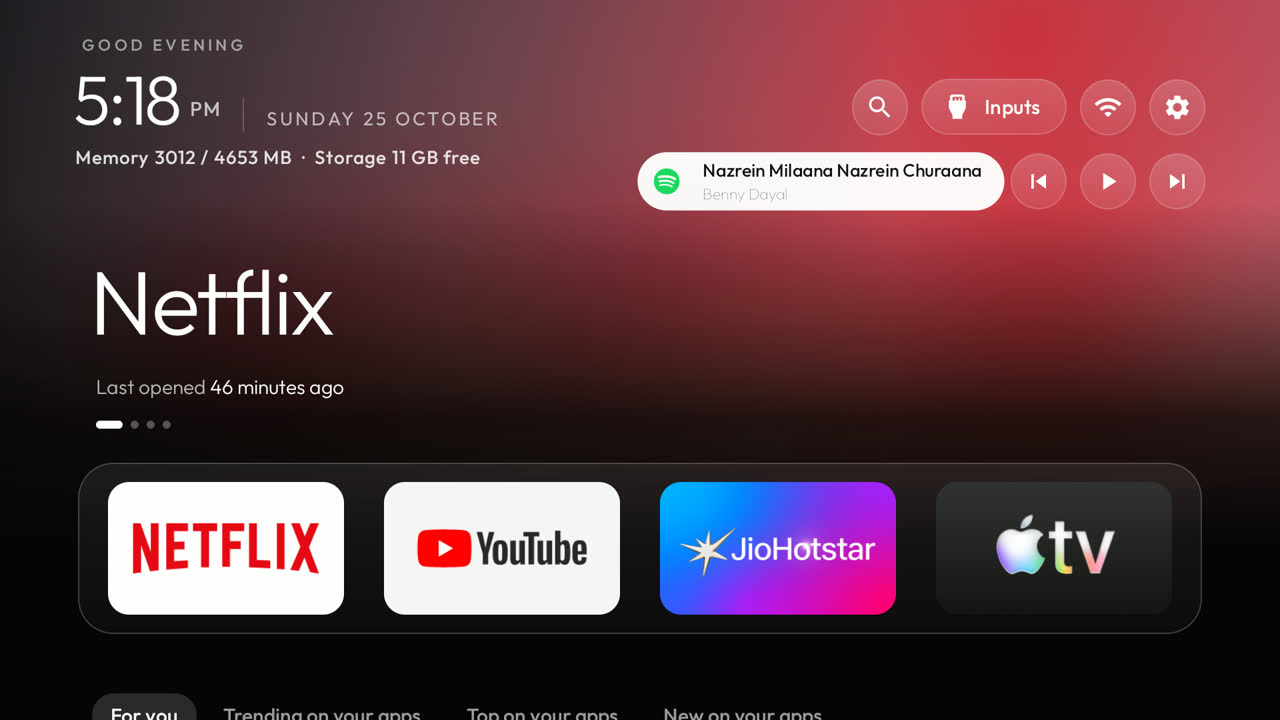
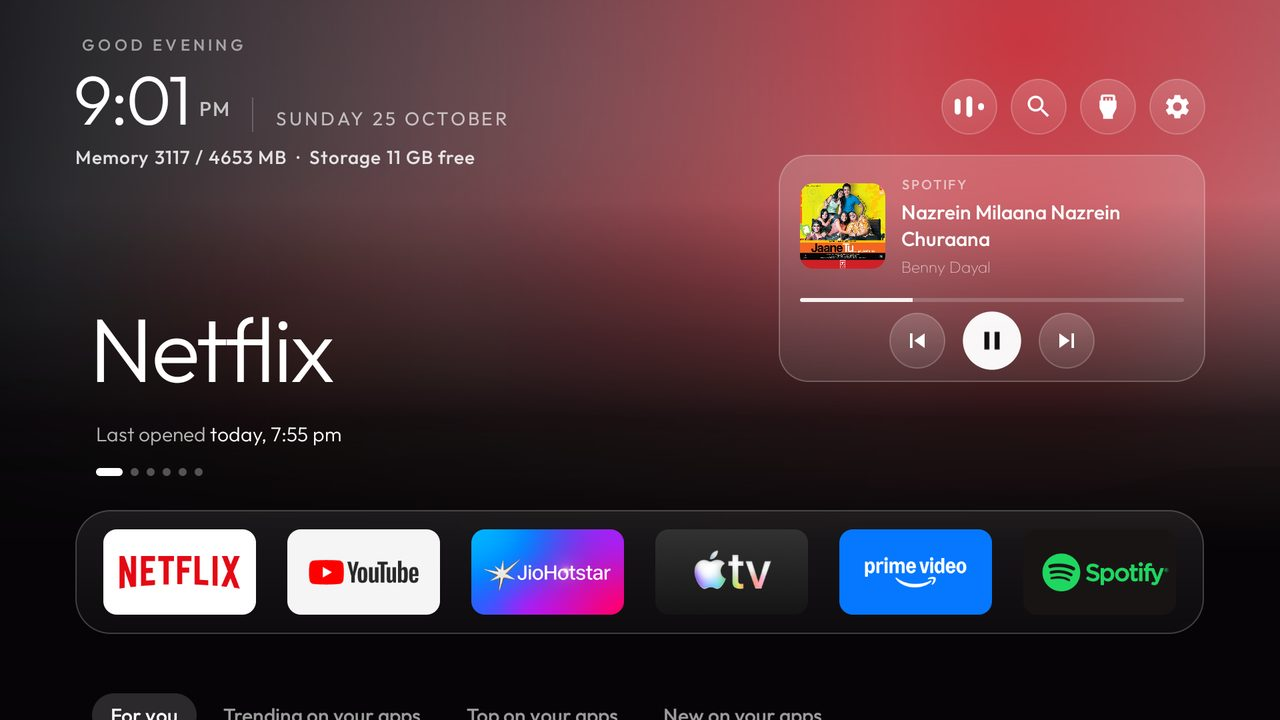
Docs: README fork box lists everything the fork adds; FORK.md covers 6 columns and the top bar
README: Discover (with TMDB backup), the now-playing button and card, the
grid (by use, 6 columns, round top buttons) and the Sony remote keys.
FORK.md: columns and poster sizing, the icon-only top bar, the music button
in the my-glass row. New now_playing screenshot (button and open card with
album art).

diff --git a/FORK.md b/FORK.md
@@ -1,7 +1,7 @@
 # This fork: Discover, Now playing and more
 
 A fork of [Gathin23/cleanyourtv](https://github.com/Gathin23/cleanyourtv) with features on top of the clean
-launcher: search and recommendations on the home screen, a now-playing card, a grid that follows what you use,
+launcher: search and recommendations on the home screen, a now-playing button and card, a grid that follows what you use,
 and a working remote on Sony BRAVIA Google TVs. Built and used daily on a **Sony BRAVIA 4K AE2** (Google TV 14,
 India). Everything upstream still applies; this page covers only what the fork adds.
 
@@ -29,7 +29,7 @@ The launcher still has **no internet permission**. Anything online lives in a se
 | **Now playing** | An animated music button in the top bar while Spotify or any media app plays; OK opens a glass card with art, title, artist, progress and previous / play-pause / next. | `now_playing` + one ADB grant |
 | **Grid by use** | The apps below the dock sort by how often (or how recently) you open them. | `grid_order` |
 | **Sony remote keys** | The app keys (Netflix, YouTube, ...) and the gear button work again without Google TV's home. | `app_keys`, `settings_key_scancodes` |
-| **my-glass theme** | The glass look with 14 rotating landscapes, 6 app columns, three round top buttons (search, inputs, settings), stats line and a 3-minute idle clock. | `themes/my-glass` |
+| **my-glass theme** | The glass look with 14 rotating landscapes, 6 app columns, round icon-only top buttons (music while playing, search, inputs, settings), stats line and a 3-minute idle clock. | `themes/my-glass` |
 
 ## Set up a TV from scratch
 
@@ -154,6 +154,10 @@ with `adb shell input` do not go through the helper; test with the real remote.
   to change it; `tools/theme.sh --reset` goes back to the plain look.
 - **grid_order:** `alphabetical` (upstream's), `recent` (last opened first) or `frequent` (most opened, the last
   week or two counting most). The dock keeps its own order.
+- **columns:** my-glass uses `"columns": 6` (like Apple TV on a 55" screen). Discover's posters stay four across
+  however many app columns there are, so artwork and titles stay readable; a focused poster row sits a little
+  higher when needed so the app name under it is never cut off.
+- **A calmer top bar:** `"show_network_pill": false` and `"icon_only_inputs": true` leave only round icons.
 
 ## Troubleshooting
 

diff --git a/README.md b/README.md
@@ -22,10 +22,15 @@
   <a href="docs/PRESS.md"><img src="docs/card.jpg" alt="293 TV models · 83 brands · 28 languages · 517 KB launcher. Featured in TechCrunch, TechRadar, Tom's Guide, Mashable, Android Authority, XDA, FlatpanelsHD, It's FOSS, Phandroid, GIGAZINE, Xataka, WinFuture, Frandroid, Macitynet, Techaeris, TechPP and 180 more: 196 articles from 32 countries. Before: stock Google TV home with a sponsored ad. After: the Clean Your TV launcher." width="800"></a>
 </p>
 
-> **About this fork** ([ishubhamsingh/cleanyourtv](https://github.com/ishubhamsingh/cleanyourtv)): search,
-> trending and *For you* rows on the home screen (the launcher stays offline), a now-playing card for Spotify and
-> other music, a grid sorted by use, and a working remote on Sony BRAVIA Google TVs. Features, setup and guides:
-> **[FORK.md](FORK.md)**. Everything below is upstream's.
+> **About this fork** ([ishubhamsingh/cleanyourtv](https://github.com/ishubhamsingh/cleanyourtv)):
+> - **Discover:** search, plus *For you*, *Trending*, *Top* and *New on your apps* posters under the dock. OK opens
+>   the title itself in its app. Your likes and hides are backed up to your TMDB account. The launcher stays offline.
+> - **Now playing:** a music button in the top bar that animates while Spotify or other music plays. OK opens a
+>   glass card with album art, title, artist, progress and controls.
+> - **The grid:** sorted by use, 6 apps per row in the *my-glass* theme, with a calmer top bar of round icons.
+> - **Sony BRAVIA remotes:** the app keys and the gear button work again.
+>
+> Features, setup and guides: **[FORK.md](FORK.md)**. Everything below is upstream's.
 
 **The viral tweet:** [x.com/gathint/status/2111379569030939102](https://x.com/gathint/status/2111379569030939102)
 

diff --git a/docs/switches.md b/docs/switches.md
@@ -46,7 +46,7 @@ fits the rules; keys from before the rule sit on its wanted list until a screens
 | `uniform_tiles` | <img src="switches/uniform_tiles.jpg" width="320" alt="uniform_tiles on a TV"> |
 | `grid_order` | <img src="switches/grid_order.jpg" width="320" alt="grid_order frequent on a TV: the most used apps first under the dock"> |
 | `discover` | <img src="switches/discover.jpg" width="320" alt="discover on a TV: search results for Lupin, the one on Netflix first"> |
-| `now_playing` | <img src="switches/now_playing.jpg" width="320" alt="now_playing on a TV: Spotify's track with previous, play and next under the top bar"> |
+| `now_playing` | <img src="switches/now_playing.jpg" width="320" alt="now_playing on a TV: the animated music button in the top bar and its open card with Spotify's album art, title, artist, progress, previous, pause and next"> |
 | `lunar_date` | <img src="switches/lunar_date.jpg" width="320" alt="lunar_date on a TV"> |
 | `dock_band` | <img src="switches/dock_band.jpg" width="320" alt="dock_band on a TV"> |
 | `show_library_pill` | <img src="switches/show_library_pill.jpg" width="320" alt="show_library_pill on a TV"> |
